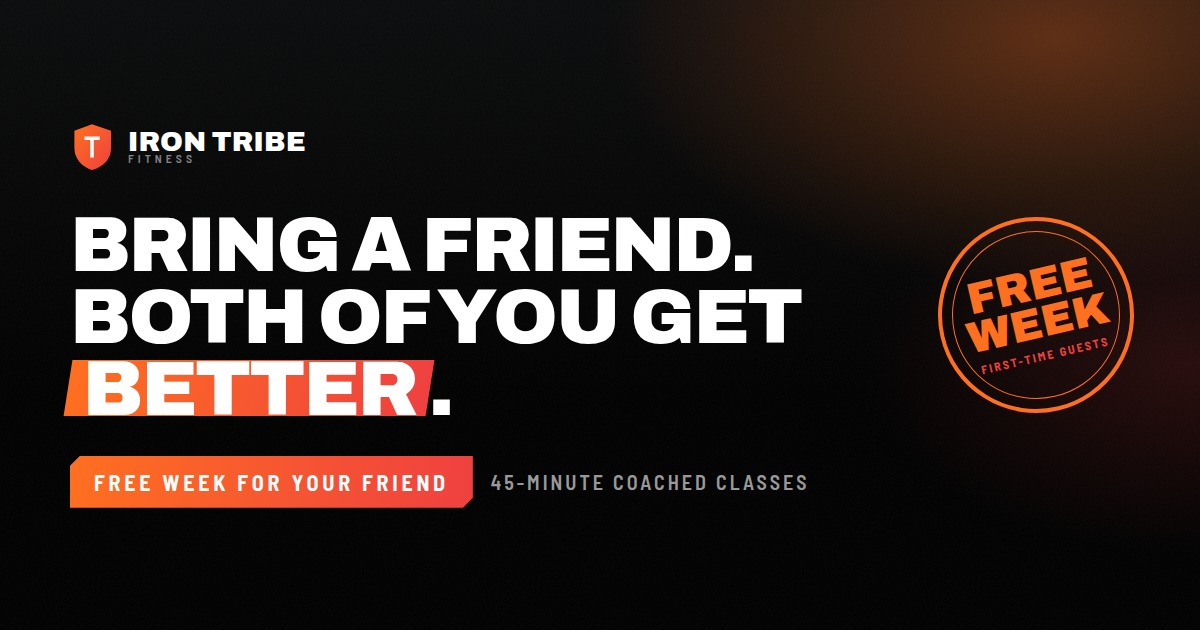
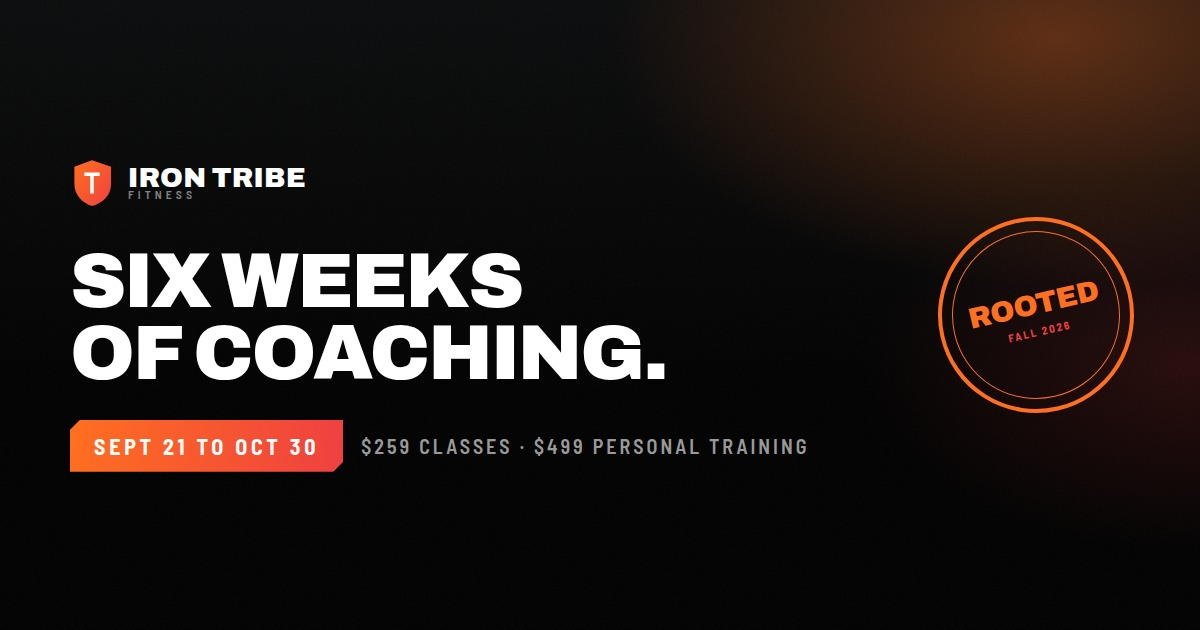
fix(rooted): regenerate the share card for the real offer
The share card still said "Bring a friend, both of you get better" with a
FREE WEEK stamp. That contradicted the page it belongs to, so anyone sharing
the link promised a free week while the page asked for $259.

Rebuilt from the same brand system: "Six weeks of coaching", the Sept 21 to
Oct 30 dates, both prices, and a Rooted stamp in place of the free week one.
Stamp type sized down so it sits inside its ring.

Claude-Session: https://claude.ai/code/session_01HmCLsZCjzapoZhcxKEjf5W

Changed region(s): [[0.0308, 0.181, 0.6783, 0.8143], [0.8017, 0.3921, 0.925, 0.6032]]

diff --git a/docs/brand/rooted-asset-list.md b/docs/brand/rooted-asset-list.md
@@ -59,5 +59,10 @@ remove the `hidden` attribute and delete the placeholder block next to it.
 
 ## Share card
 
-`public/og-bring-a-friend.jpg`, 1200x630, built by us from the brand system. It still carries
-the old "free week" headline and **must be regenerated for the Rooted offer** before launch.
+`public/og-bring-a-friend.jpg`, 1200x630, built by us from the brand system and regenerated
+for Rooted. It reads "Six weeks of coaching", carries the dates and both prices, and no longer
+mentions a free week.
+
+The one outstanding item on it: `og:image` is still a root-relative path. Make it an absolute
+URL, and set `og:url`, once the production domain is known. Facebook and LinkedIn do not
+reliably resolve relative image paths.
